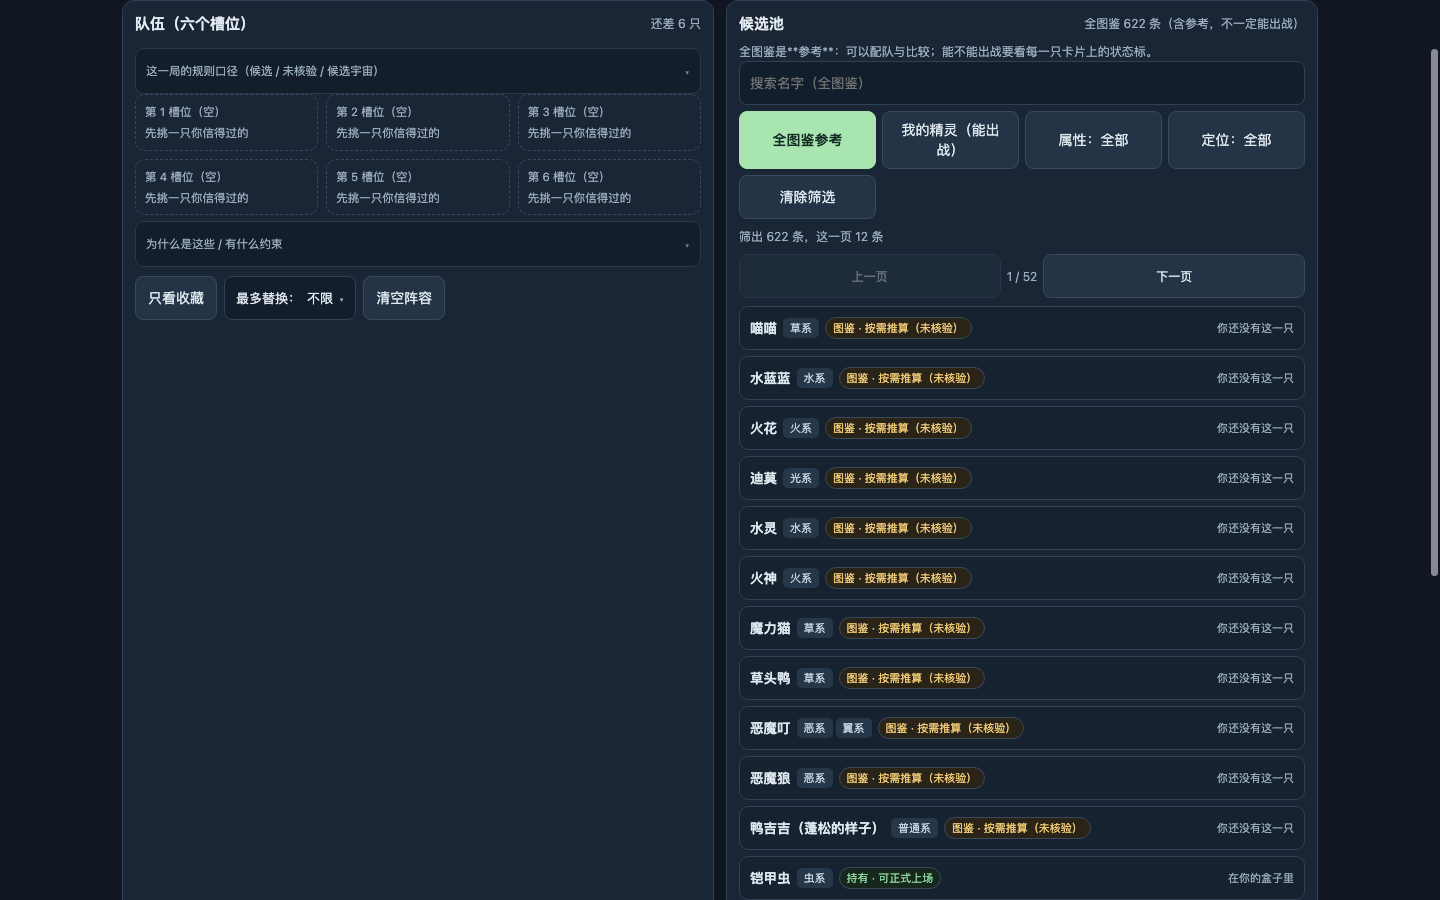
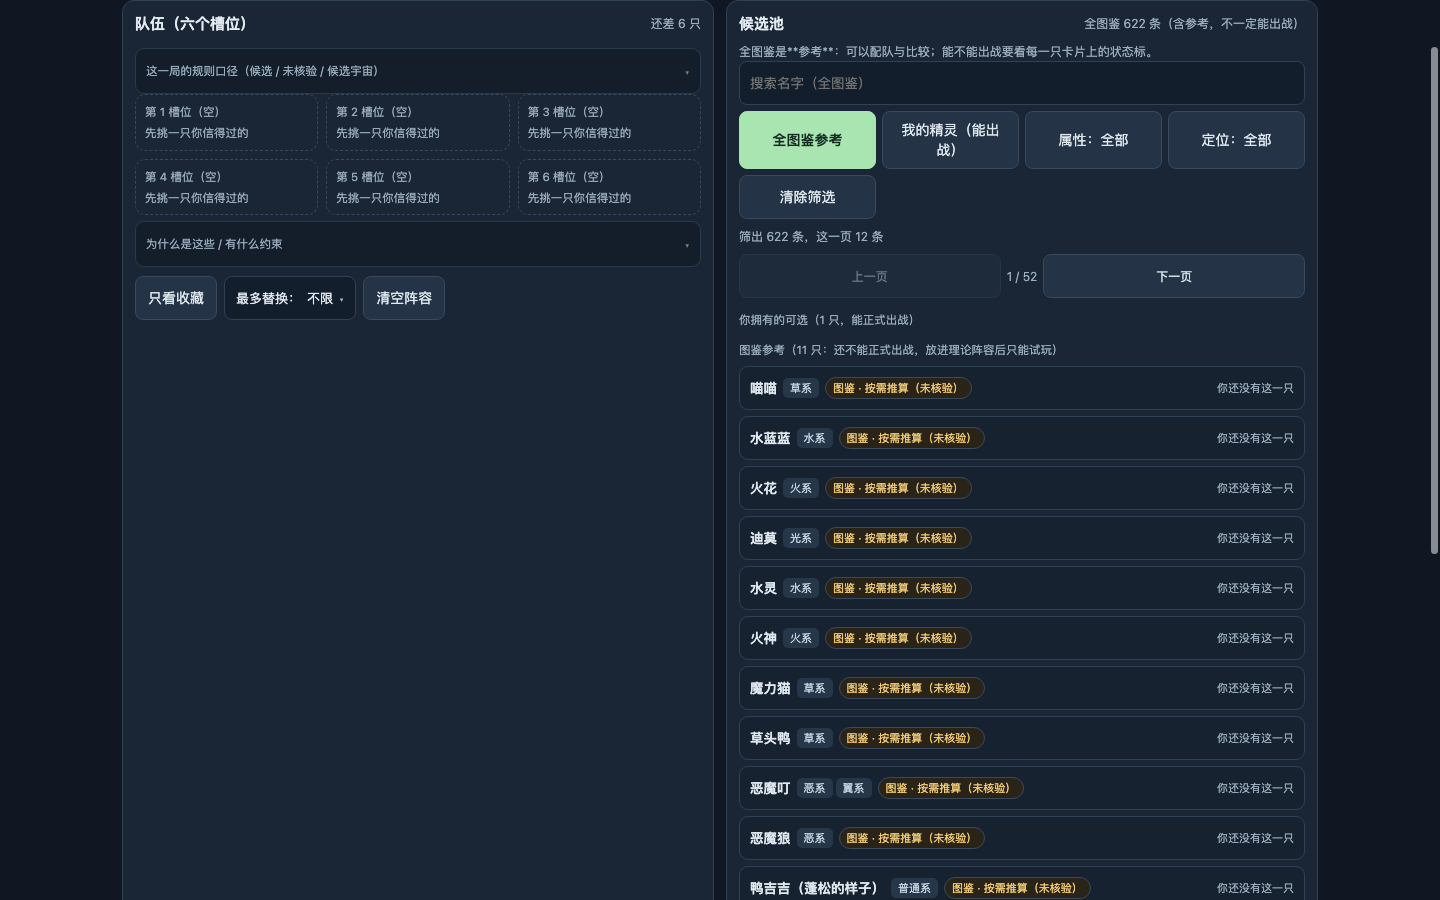
feat(q2): 候选按「拥有与否」分组显示（人类实测：50 个候选里 25 个不属于我）
人类问「为什么不存在/不属于我的精灵进入假想序列」。先把量说准（实测）：
- 召回候选 50 个里 **25 个是我不拥有的物种**（喵喵/水蓝蓝/火花/迪莫…）—— 这是 v3 的候选宇宙口径，
  **不是 bug**；问题在**呈现**：它们和「我拥有的」混在一列，看起来像进了我的队伍；
- 补全的队伍里非我拥有物种 **0**、槽位里 **0**、候选里**没有无配招的物种**（0/50）。

本轮修呈现那一半：候选列表按**拥有与否分组**并给计数 ——
「你拥有的可选（N 只，能正式出战）」/「图鉴参考（M 只：还不能正式出战，放进理论阵容后只能试玩）」。
真机判据（工坊验收 43/43 + 31/31）实测 _拥有 1 / 图鉴参考 11_，两条说明都在；
反证：把两类混成一列必须红。判据先切到「全图鉴参考」范围，否则 ref=0 **空转**（我第一版就是这样）。

还剩（1 轮）：槽位逐只标 + 含图鉴物种时开局只走「试玩」并写明。
门禁 22/22；真机 21/21 + 20/20。

Changed region(s): [[0.5, 0.3422, 0.9062, 1.0], [0.8438, 0.3422, 0.9062, 0.3733]]

diff --git a/src/client/team-workshop.js b/src/client/team-workshop.js
@@ -145,6 +145,8 @@ const STYLE = `
 .tw-cand-tools .tw-btn{min-height:44px;width:100%}
 /* 翻页那一行：用 flex 让两个按钮**平分整行**、页码居中（grid 三列在实测里没生效，
    这里换成 flex：flex:1 1 0 一定平分，不给浏览器留下别的解释）。 */
+/* 候选列表的分组说明条（人类实测 Q2：约一半候选是我不拥有的物种） */
+.tw-group-note{margin:6px 0 2px;font-size:11.5px;color:#9caebe}
 .tw-cand-tools.tw-pager{display:flex;gap:6px;align-items:center}
 .tw-cand-tools.tw-pager .tw-btn{flex:1 1 0;width:auto;min-width:0}
 .tw-cand-tools.tw-pager .tw-note{flex:0 0 auto;white-space:nowrap}
@@ -597,6 +599,33 @@ export function mountTeamWorkshop(rootEl, opts = {}) {
     return [...bySpecies.values()];
   }
 
+  /**
+   * 给候选列表按**拥有与否**分组（人类实测 Q2）：在两组之间插一条说明行，并写清各几条。
+   * 只动玩家看得见的呈现，不动服务端的召回口径（候选宇宙仍是 600+）。
+   */
+  function groupPoolRows() {
+    const list = $('tw-cand-list');
+    if (!list) return;
+    list.querySelectorAll('[data-tw-group]').forEach((el) => el.remove());
+    const rows = [...list.querySelectorAll('.tw-row')];
+    if (!rows.length) return;
+    const held = rows.filter((r) => (r.dataset.twStatus || '') === 'held');
+    const ref = rows.filter((r) => (r.dataset.twStatus || '') !== 'held');
+    if (!held.length || !ref.length) {
+      // 只有一类时不加分组条，但把计数写在结果行上（玩家仍知道自己在看什么）
+      rootEl.dataset.twPoolHeld = String(held.length);
+      rootEl.dataset.twPoolRef = String(ref.length);
+      return;
+    }
+    const note = (text) => `<p class="tw-group-note" data-tw-group="yes">${text}</p>`;
+    const firstRef = ref[0];
+    firstRef.insertAdjacentHTML('beforebegin',
+      note(`你拥有的可选（${held.length} 只，能正式出战）`)
+      + note(`图鉴参考（${ref.length} 只：还不能正式出战，放进理论阵容后只能试玩）`));
+    rootEl.dataset.twPoolHeld = String(held.length);
+    rootEl.dataset.twPoolRef = String(ref.length);
+  }
+
   function renderPool() {
     const rows = state.pool.rows;
     if (!rows.length) {
@@ -645,6 +674,11 @@ export function mountTeamWorkshop(rootEl, opts = {}) {
        <span class="tw-rowtag">${held ? '在你的盒子里' : '你还没有这一只'}</span>
       </button>`;
       }).join(''));
+    // 2026-09-22（人类实测 Q2）：召回/候选里**约一半是我不拥有的物种**（实测 50 个候选里 25 个：
+    // 喵喵 / 水蓝蓝 / 火花 / 迪莫…）。它们按 v3 口径是合法的**候选宇宙**，但页面原来把它们和
+    // 「我拥有的」混在一列里，看起来像「不存在的精灵进了我的队伍」。这里按**拥有与否**分组显示并给计数，
+    // 让玩家一眼看出哪些能正式出战、哪些只是图鉴参考（只能试玩）。
+    groupPoolRows();
     const pages = Math.max(1, Math.ceil(state.pool.total / state.pool.pageSize));
     const page = Math.min(pages, Math.floor(state.pool.offset / state.pool.pageSize) + 1);
     $('tw-cand-page').textContent = `${page} / ${pages}`;

diff --git a/docs/roadmap/PLAYER-LOOP-CHECKLIST.md b/docs/roadmap/PLAYER-LOOP-CHECKLIST.md
@@ -241,7 +241,7 @@
 **为什么不在页面判**：公开视图**故意不给对手全队**（`opponent.bench` 只有位次与是否倒下），
 页面上量这条只会是假判据 —— 我第一版就是这么写了又删掉的。
 
-### Q2 为什么「不存在的精灵」进入假想序列？—— **已定位，待改（1–2 轮）**
+### Q2 为什么「不存在的精灵」进入假想序列？—— **已定位；分组那一半已修（本轮），补全偏好那一半已有事实**
 
 **事实**：补全（Beam）填六槽时用的是**图鉴物种**：实测一次 `selected=own-0001,own-0003` 的召回，
 候选 50/50 全是 `pet_*`、**0 个是我的个体**。所以你在「队伍」里看到的六只，
@@ -250,7 +250,19 @@
 **该怎么办**：① 补全**优先用已拥有物种**；② 必须用图鉴物种时，槽位/候选上按
 「已拥有 / 图鉴·可试玩 / 仅资料」逐只标（现在只有候选行有标，**槽位**上没有）；
 ③ 六只里出现图鉴物种时，开局按钮只能走「试玩」并在按钮上写明。
-**工期**：1–2 轮（服务端补全偏好 + 槽位标注 + 判据与反证）。
+**本轮实测（把量说准）**：
+- 召回候选 **50 个里 25 个是我不拥有的物种**（喵喵 / 水蓝蓝 / 火花 / 迪莫…）——这是 v3 的候选宇宙口径，
+  **不是 bug**；但页面把它们和「我拥有的」**混在一列**，看起来就像「不存在的精灵进了我的队伍」。
+- **补全的队伍**里非我拥有的物种是 **0**（Beam 已经优先用已拥有，实测三支队伍 0/6 非我拥有）；
+  **槽位里也没有**非我拥有的物种（真实路由实测）；候选里**没有一个没有配招**的物种（0/50）。
+
+**本轮已修的那一半**：候选列表按**拥有与否分组**并给计数 ——
+「你拥有的可选（N 只，能正式出战）」/「图鉴参考（M 只：还不能正式出战，放进理论阵容后只能试玩）」。
+真机判据（工坊验收，**43/43 + 31/31**）：实测 _拥有 1 / 图鉴参考 11_，两条说明都在；
+反证：把两类混成一列（不给说明）必须红。判据先切到「全图鉴参考」范围，否则 `ref=0` **空转**。
+
+**还剩**：① 槽位逐只标「已拥有 / 图鉴·可试玩 / 仅资料」（现在只有候选行有标）；
+② 六只里出现图鉴物种时，开局按钮只走「试玩」并在按钮上写明。**工期：1 轮。**
 
 ### Q3 选精灵的框能不能提前做大？—— **纳入（1 轮）**
 
